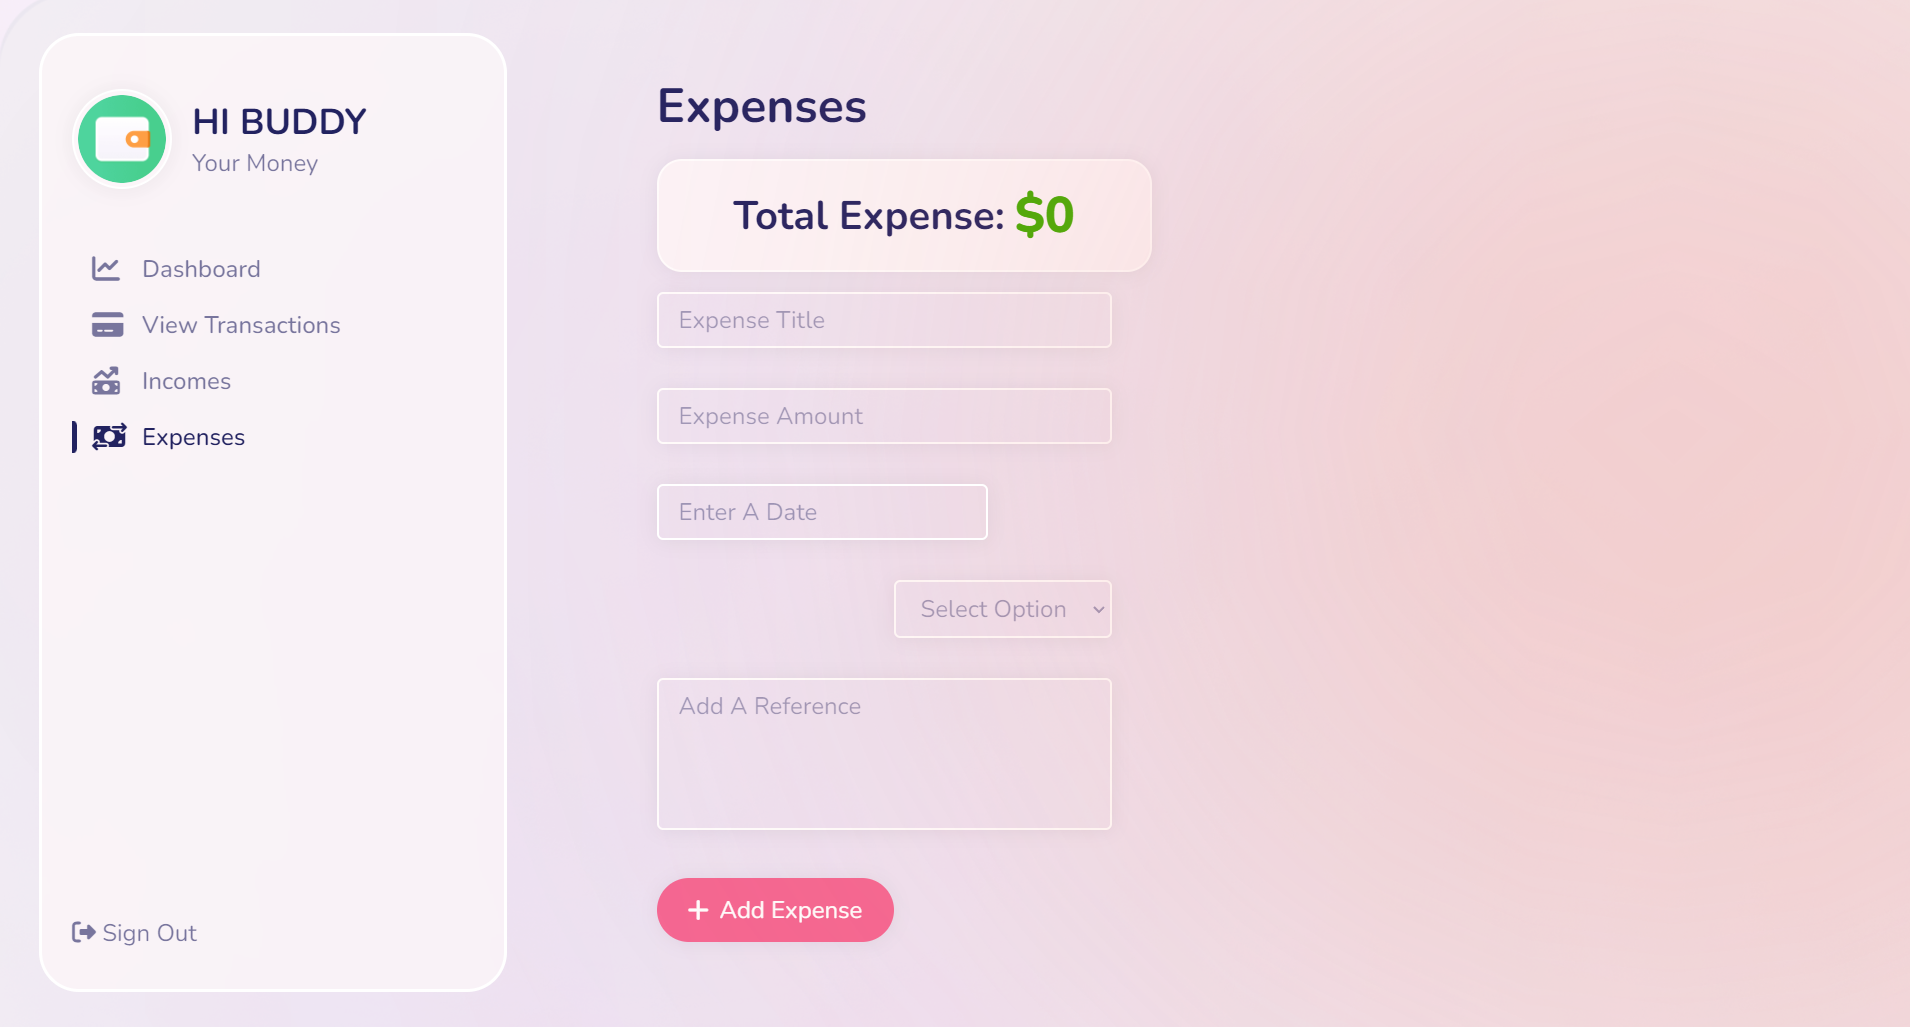
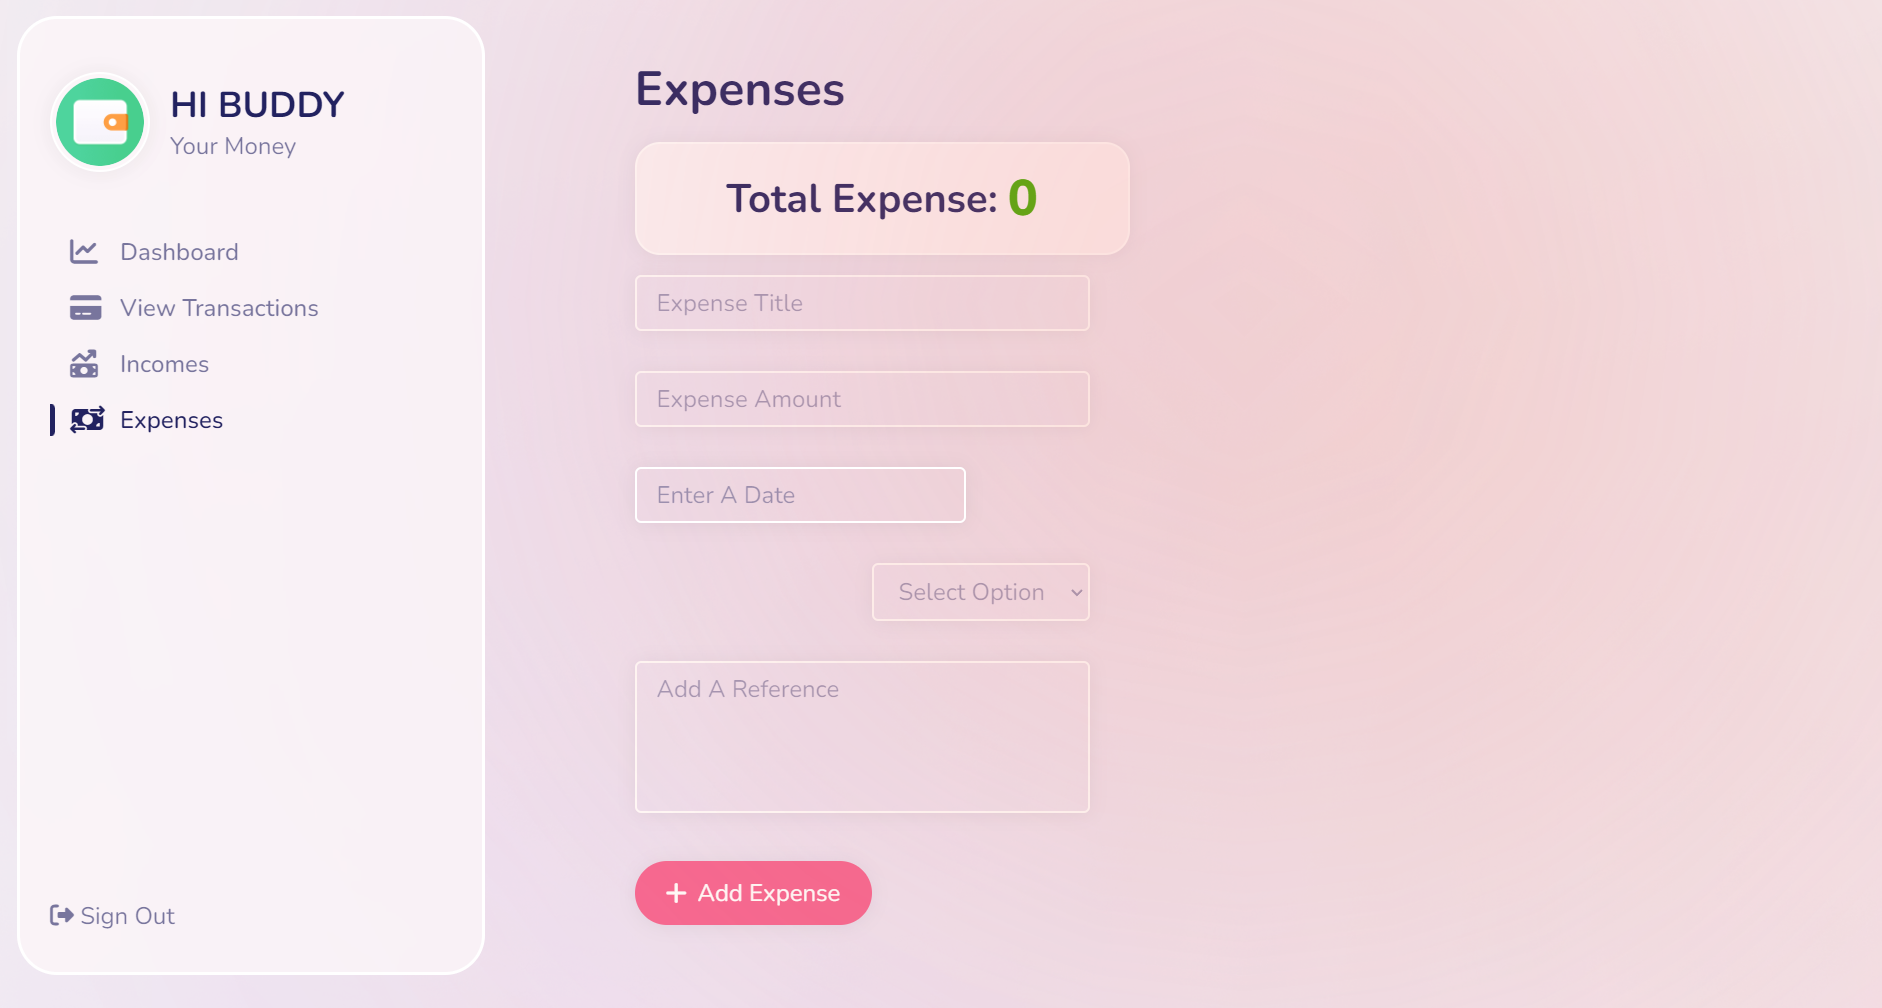
first commit

diff --git a/frontend/src/Components/Expenses/Expenses.js b/frontend/src/Components/Expenses/Expenses.js
@@ -16,7 +16,7 @@ function Expenses() {
         <ExpenseStyled>
             <InnerLayout>
                 <h1>Expenses</h1>
-                <h2 className="total-income">Total Expense: <span>${totalExpenses()}</span></h2>
+                <h2 className="total-income">Total Expense: <span>{totalExpenses()}</span></h2>
                 <div className="income-content">
                     <div className="Form-container">
                         <ExpenseForm />
